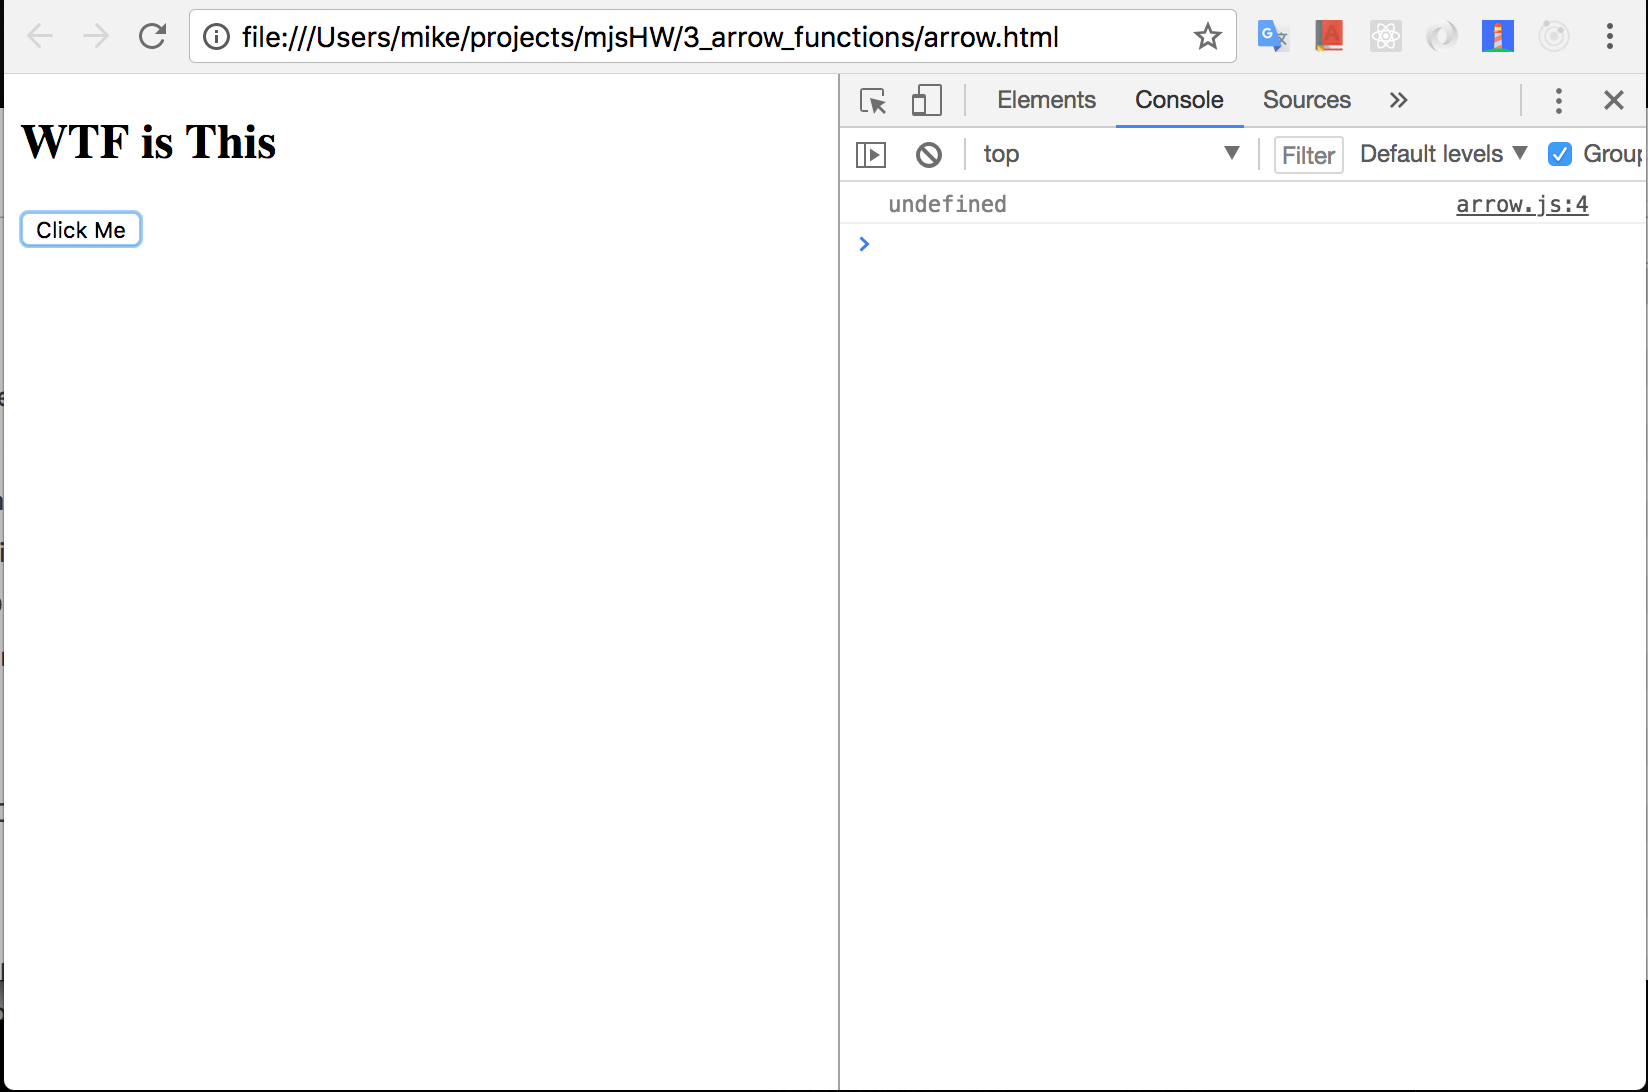
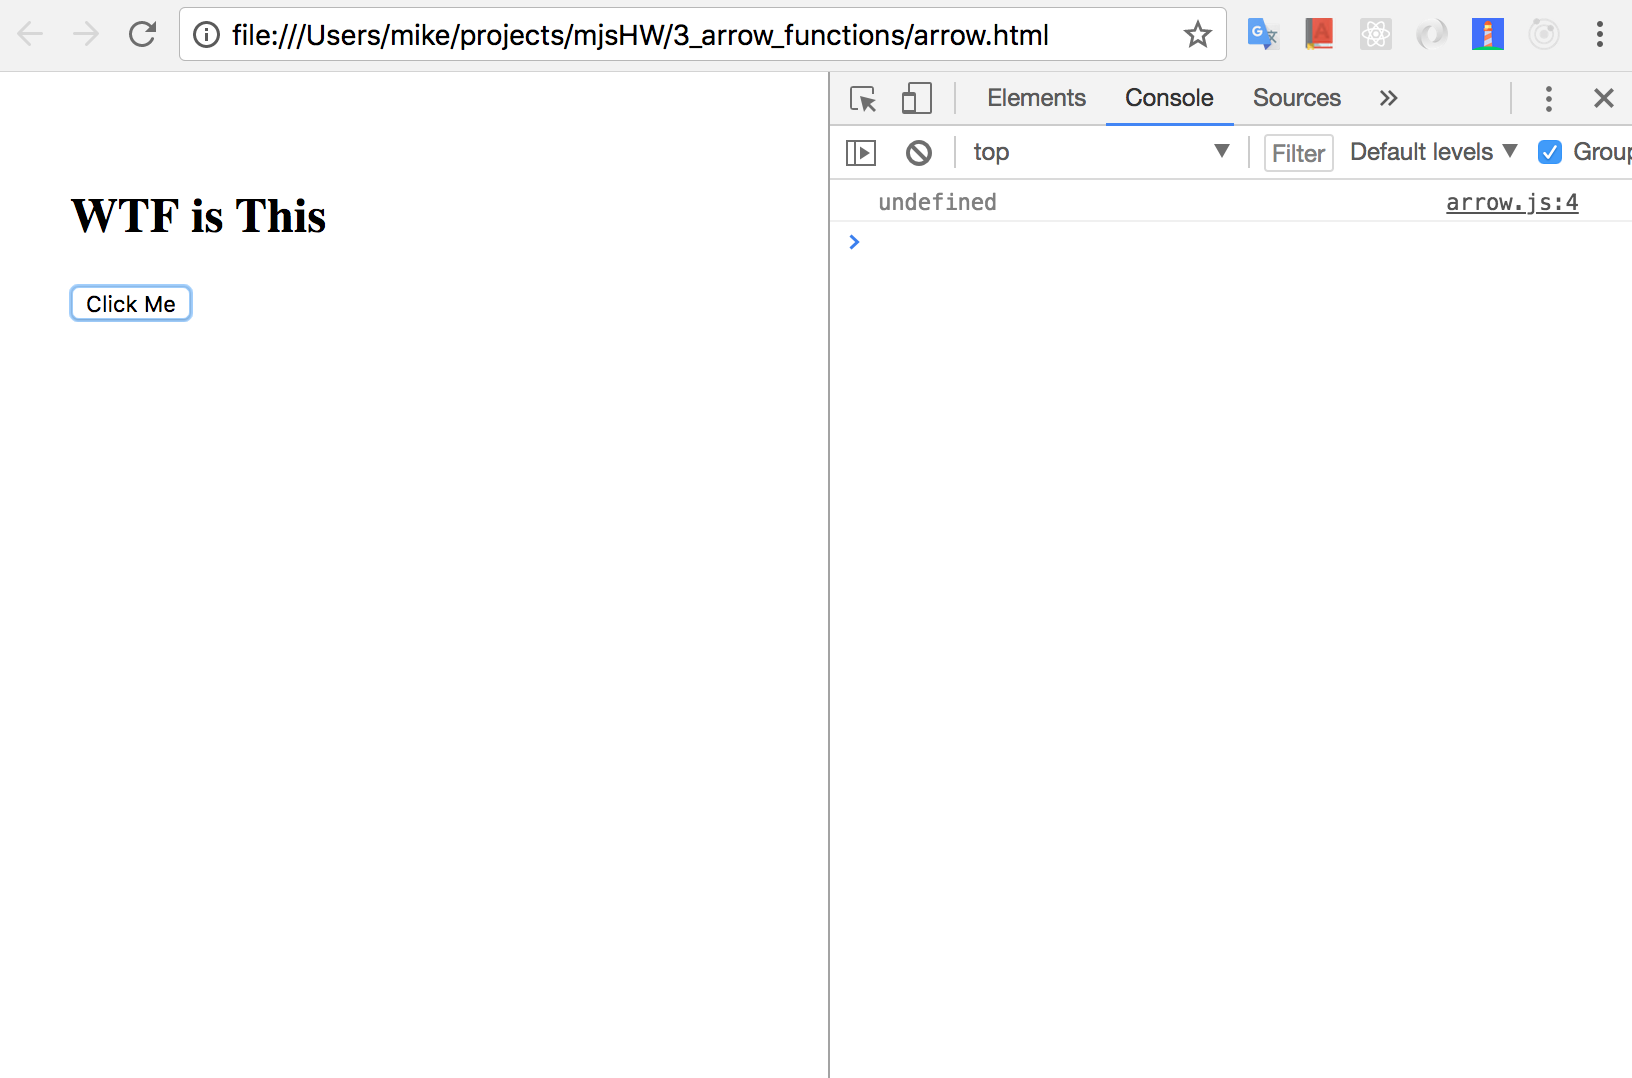
fix(arrow-functions): pic

diff --git a/3_arrow_functions/arrow.html b/3_arrow_functions/arrow.html
@@ -4,8 +4,10 @@
     <title>WTF is This</title>
 </head>
 <body>
-    <h2>WTF is This</h2>
-    <div id="hi"></div>
-    <script type="text/javascript" src="arrow.js"></script>
+    <div style="padding: 30px;">
+        <h2>WTF is This</h2>
+        <div id="hi"></div>
+        <script type="text/javascript" src="arrow.js"></script>
+    </div>
 </body>
 </html>

diff --git a/3_arrow_functions/README.md b/3_arrow_functions/README.md
@@ -1,6 +1,6 @@
 # Homework
 
 1. Make it work
-2. Make it 3 different ways
+2. Do it in 3 different ways
 
 ![Make it work](pic.png)
